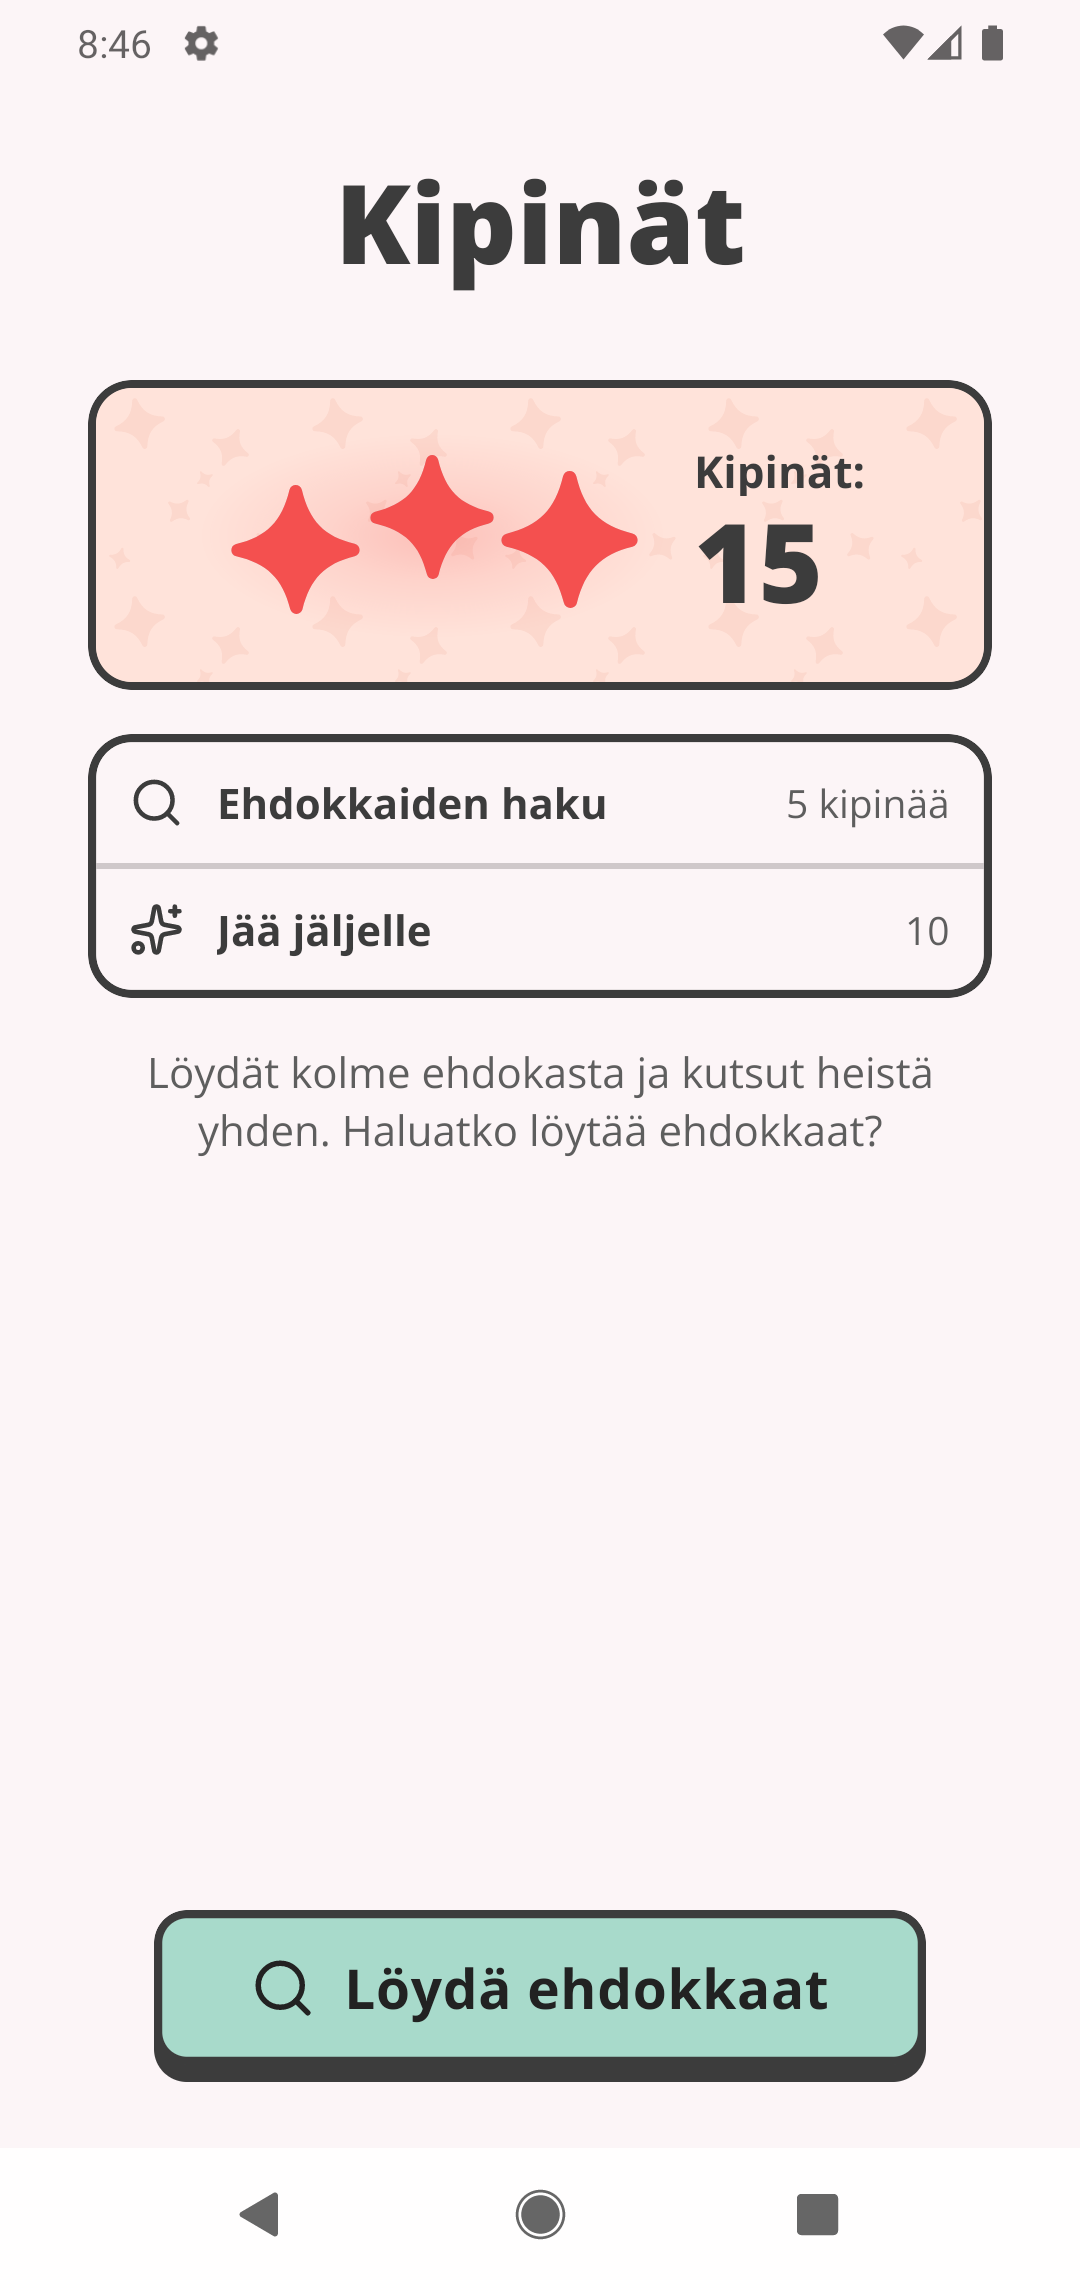
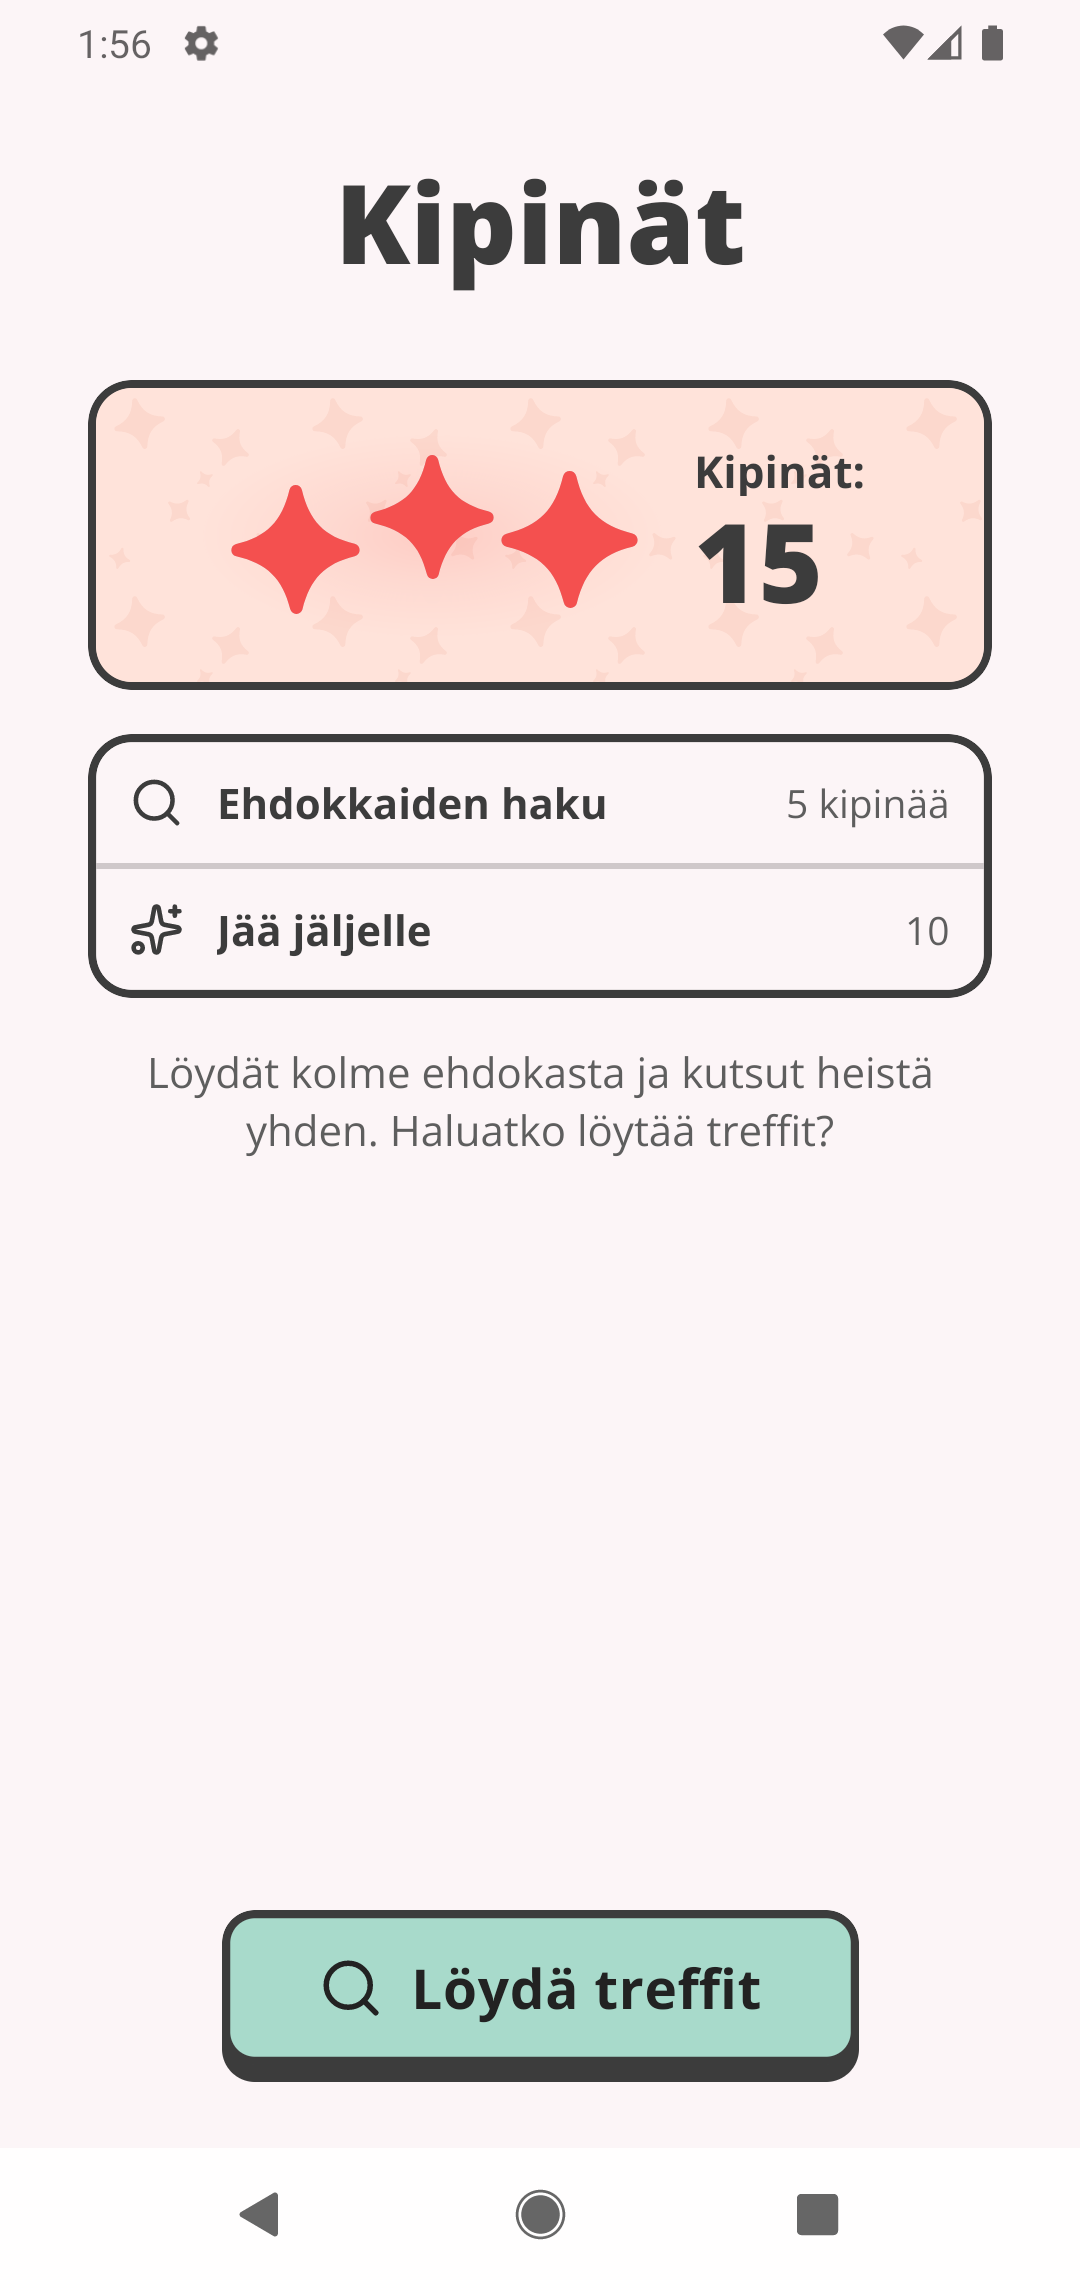
Pictures: the screens the onboarding review changed, retaken at pilke-app 5e2efe4
- Manual, both languages: the three cooldown notices over Treffit's new
  Seuraavaksi, and the Kipinät step with Löydä treffit. English only: the home
  screen with Find dates! (the Finnish one is unchanged).
- Front page and Näin se toimii: the cancel dialog, which now names when the
  cooldown would end; the English hero, from a home still with Find dates!.
- The story still (drawn on no page; the print kit's), with the five-section
  progress bar and the quoted scene.

The rest stand: their screens did not change. Omat tiedot's pictures wait for
the settings round that is still moving.

Claude-Session: https://claude.ai/code/session_01GD9L6NkBiCqNs6T5pZN8hJ

diff --git a/docs/pictures.md b/docs/pictures.md
@@ -170,8 +170,8 @@ the flow inside it, and "in English" means that flow's copy derived by `manual-s
 | `invitation` | Invitation received | `screenshots.yaml` | The map with the offered venues' pins, under a sheet opening with the sender's Treffit card (face, name and age, the `Aikaa vastata` countdown), `Valitse aika ja paikka`, the time grid with weekdays, the venue rows, `Hylkää`, `Takaisin` and `Sovittu!` |
 | `date` | An agreed date, upcoming | `.maestro/manual/dateUpcoming.yaml`, as the seeded home account with its language set to Finnish | The map with the venue's pin, under a sheet opening with the partner's Treffit card (venue and time), the calendar page, `Treffit tänään` or `Treffit huomenna` as the seeded hour falls, with the venue's line, the `Synkronoi treffit` row, `Peru treffit` and `Takaisin` |
 | `date-en` | An agreed date, upcoming, English | `.maestro/manual/dateUpcomingEn.yaml`, the same account in English | The same date in English, `Cancel the date` and `Back`. Drawn on `/en` in place of `date` |
-| `date-cancel` | An agreed date, upcoming, its cancel confirmation | `.maestro/manual/dateUpcoming.yaml`, after `date`, `Peru treffit` tapped and nothing in the dialog pressed | The date screen dimmed under the *Oletko varma?* dialog: what calling the date off costs, the cooldown that follows and that it grows as the date nears, `Takaisin` and `Peru`. Copy the app owns, so it goes stale on the dialog's wording. Drawn on `nain-se-toimii` under *Joskus suunnitelmat muuttuvat* |
-| `date-cancel-en` | The same, English | `.maestro/manual/dateUpcomingEn.yaml` | *Are you sure?*, `Back` and `Cancel the date`. Drawn on `/en` in place of `date-cancel` |
+| `date-cancel` | An agreed date, upcoming, its cancel confirmation | `.maestro/manual/dateUpcoming.yaml`, after `date`, `Peru treffit` tapped and nothing in the dialog pressed | The date screen dimmed under the *Oletko varma?* dialog: what calling the date off costs, the cooldown that follows and *Jäähy päättyy* with the moment it would end, `Takaisin` and `Peru`. Copy the app owns, so it goes stale on the dialog's wording. Drawn on `nain-se-toimii` under *Joskus suunnitelmat muuttuvat* |
+| `date-cancel-en` | The same, English | `.maestro/manual/dateUpcomingEn.yaml` | *Are you sure?*, *The cooldown ends* with its moment, `Back` and `Cancel the date`. Drawn on `/en` in place of `date-cancel` |
 | `story-en` | Story test, first question, English | `screenshotStory.yaml` in English | The first question in English and `Continue`. Drawn on no page |
 | `platter-en` | Candidates, English | `screenshotPlatter.yaml` in English | What `platter` shows, in English: `Candidates`, `Times`, `Places`, `Propose!`. Drawn on `/en` in place of `platter` |
 | `invitation-en` | Invitation received, English | `screenshots.yaml` in English | What `invitation` shows, in English: `Choose a time and a place`, `Decline`, `Back`, `Agreed!`. Drawn on `/en` in place of `invitation`, and set into `beta-invitation-en` |
@@ -183,11 +183,11 @@ the flow inside it, and "in English" means that flow's copy derived by `manual-s
 | `preferences-en` | The same, English | `screenshotPreferences.yaml` in English | The same questions in English. Drawn on `/en` in place of `preferences` |
 | `kalenteri` | Calendar, a week in use | `capture-kalenteri-busy.sh`, the `busy-week` step, as Veera's account | Three days of the week: free slots marked *Treffivaraus* in coral with their sparkles, the phone's own events hatched beside them, the yellow density shading, the ⋮ and (i) buttons, the tab bar. Drawn on `nain-se-toimii` |
 | `kalenteri-en` | Calendar, a week in use, English | the same step in English | The same week in English. Drawn on `/en` in place of `kalenteri` |
-| `story` | Story test, first question | `screenshotStory.yaml` | The wordmark on the yellow onboarding ground, the progress dots, the question and its options, `Jatka`. Drawn on no page; the print kit's element library places it (`tools/print-kit/build.py`) |
+| `story` | Story test, first question | `screenshotStory.yaml` | The wordmark on the yellow onboarding ground, the progress bar's five sections (*Profiili*, *Persoonallisuus*, *Toiveet*, *Paikat*, *Ajat*), the first scene in italic quotation marks and its options as cards with one picked, `Jatka`. Drawn on no page; the print kit's element library places it (`tools/print-kit/build.py`) |
 | `asetukset` | Settings, Safety open | `screenshots.yaml` | The accordion's sections with their icons and round chevrons, Safety open with its whole explanation, the trusted-contact field and its save button, the tab bar. The most copy of any picture here, so it goes stale on wording as well as on layout |
 | `asetukset-en` | Settings, Safety open, English | `screenshots.yaml` in English | The same section in English, `Save number`. Drawn on `/en` in place of `asetukset` |
 | `hero-cutout-fi` | Home, populated, **inside a photograph, cut out** | `screens/treffit.png` composited by `scripts/photos/hero.py fi`, cut out by `scripts/photos/cutout.py` | Everything `treffit` shows, both Android bars included (the phone in the photo is an Android), bent round the phone's curved edges; the hand and phone only, transparent, on the page's coral disc, which clips the hand and arm; `hero-cutout-phone.png`, a mask of the same size, lets the phone and the fingers gripping it stand over the disc's edge, each by its own contour; the disc's circle is baked into both, so the page's geometry and `scripts/photos/cutout.py` change together. A reshoot of `treffit` reaches the page only through this composite |
-| `hero-cutout-en` | Home, English, **inside a photograph, cut out** | `scripts/photos/stills/treffit-en.png`, `screenshots.yaml` in English, composited by `hero.py en`, cut out with the Finnish one's alpha | The same fixture as `treffit`, in English: the three stacks, the spark counter (`Sparks:`), `Find a date!`, both Android bars |
+| `hero-cutout-en` | Home, English, **inside a photograph, cut out** | `scripts/photos/stills/treffit-en.png`, `screenshots.yaml` in English, composited by `hero.py en`, cut out with the Finnish one's alpha | The same fixture as `treffit`, in English: the three stacks, the spark counter (`Sparks:`), `Find dates!`, both Android bars |
 | `beta-invitation-fi` | Invitation received, **inside a photograph** | `screens/invitation.png` composited by `scripts/photos/beta.py fi` | What `invitation` shows, standing on the screen's foot as the app lays out on an iPhone, the home indicator in the gutter under `Sovittu!`; a drawn iOS status bar over the map, whose top rows, under the bar, are the map's own mirrored; a thumb covers the lower venue rows, `Hylkää` and `Takaisin`. Drawn in the footer's beta card on the front page only |
 | `beta-invitation-en` | Invitation received, English, **inside a photograph** | `screens/invitation-en.png` composited by `beta.py en` | The same in English; the thumb covers the lower venue rows, `Decline` and `Back` |
 | `date-bench-wide` | None: a stock photograph, no app in it | `scripts/photos/crops.py`, from the Pexels original | Two people talking on a garden bench, she laughing behind a hand and he leaning in, under *Nauttikaa treffeistä!* on `nain-se-toimii` in both languages. `date-bench-tall` is the same picture cut 4:5 for a phone, drawn from a `<source>` and so not listed above. Nothing in it shows the app, so it cannot go stale with it; the faces are small enough that a closer crop would make them recognisable, so neither crop goes nearer than it does |
